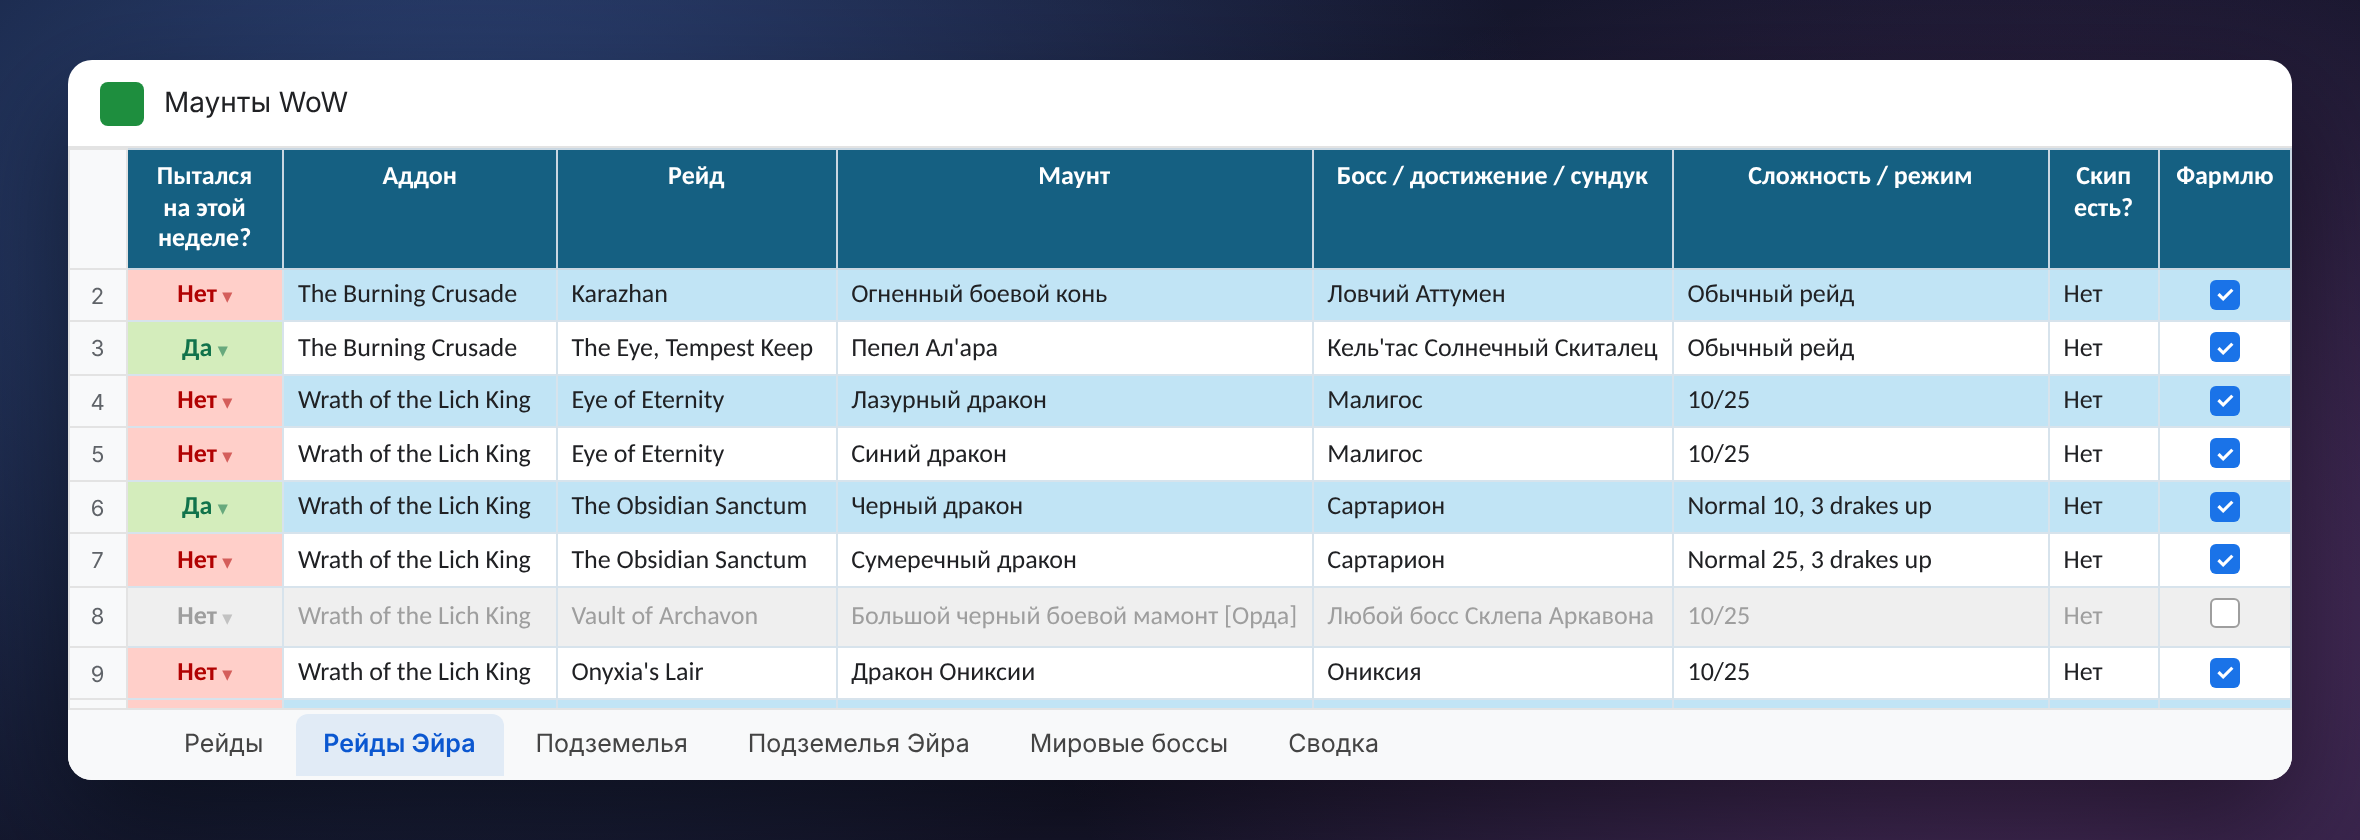
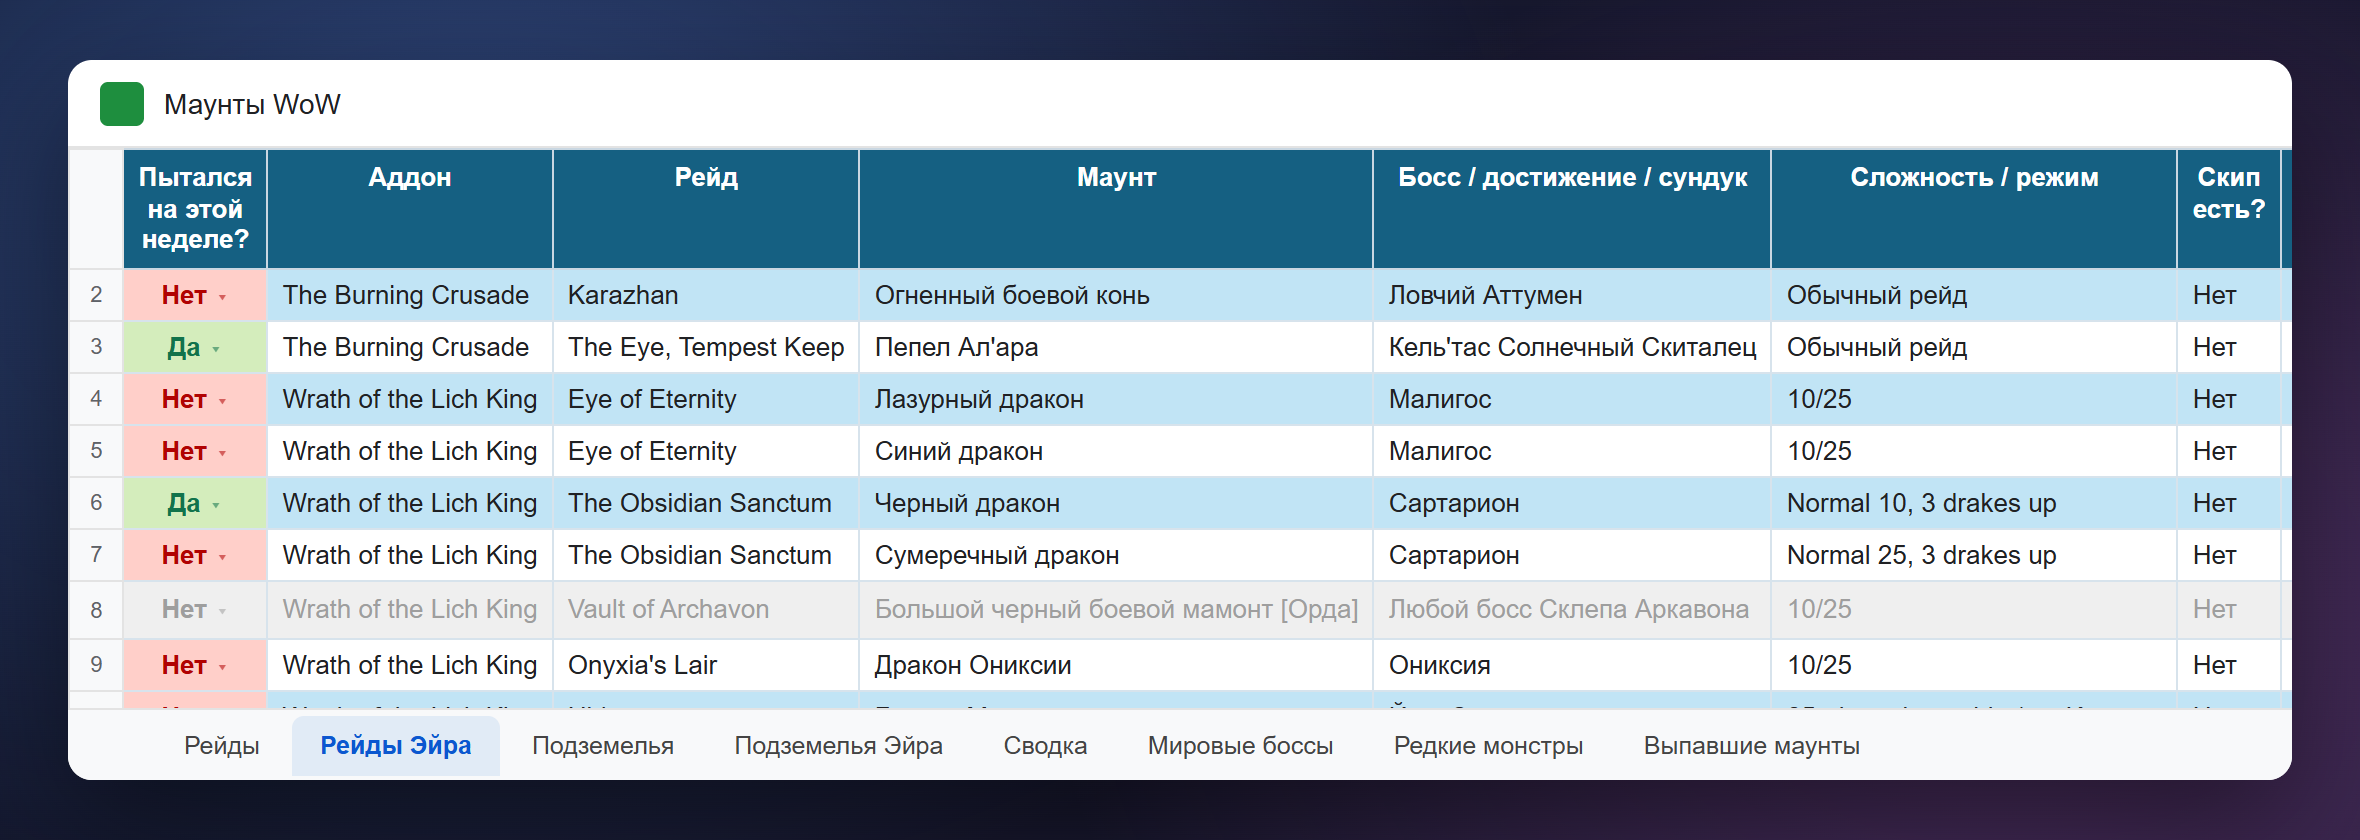
The sheet picture in English for CurseForge; the Russian one redrawn with today's sheets
- BuilderHost: "lang" in the job builds the sheet in that language (SheetLang).
- program.py: the sheet's words for both languages, the host runs by itself on Windows, the tabs come from the built
  sheet (Rare Monsters, Dropped Mounts too); updateCells with a range instead of a start no longer break it.

diff --git a/tools/screens/program.py b/tools/screens/program.py
@@ -7,7 +7,8 @@
 
   python3 tools/screens/program.py      (needs tools/cs_host/BuilderHost.exe: tools/cs_host/build.sh)
   MSS_SCREEN_LANG=enUS python3 tools/screens/program.py   -> docs/screens/en/program-menu.png, program-settings.png
-      (the CurseForge set: the same pictures with the program's English texts from tools/i18n/ui*.txt; no sheet)
+      and sheet.png (the CurseForge set: the program's English texts from tools/i18n/ui*.txt, the sheet as SheetLang
+      writes an English one)
 """
 import html
 import json
@@ -205,15 +206,29 @@ def color(c, default):
     return "rgb(%d,%d,%d)" % tuple(round(255 * c.get(k, 0)) for k in ("red", "green", "blue"))
 
 
+# The sheet's own words: Russian, or English as SheetLang writes an English sheet (BuilderHost "lang").
+SHEET_WORDS = {
+    "ru": {"title": "Маунты WoW", "char": "Эйра", "yes": "Да", "no": "Нет",
+           "tabs": ["Рейды", "Рейды Эйра", "Подземелья", "Подземелья Эйра", "Мировые боссы", "Сводка"]},
+    "en": {"title": "WoW Mounts", "char": "Eira", "yes": "Yes", "no": "No",
+           "tabs": ["Raids", "Raids Eira", "Dungeons", "Dungeons Eira", "World Bosses", "Summary"]},
+}
+
+
 def sheet_html(w, h):
-    job = {"title": "Маунты WoW", "chars": [{"name": "Эйра", "raids": True, "dungeons": True}], "collected": [], "defaultSheetId": 0}
+    words = SHEET_WORDS["en" if LANG == "en" else "ru"]
+    job = {"title": words["title"], "chars": [{"name": words["char"], "raids": True, "dungeons": True}], "collected": [],
+           "defaultSheetId": 0}
+    if LANG == "en":
+        job["lang"] = "en"
     host = os.path.join(ROOT, "tools", "cs_host", "BuilderHost.exe")
-    out = json.loads(subprocess.run(["mono", host], input=json.dumps(job, ensure_ascii=False).encode(), capture_output=True,
-                                    check=True).stdout.decode("utf-8"))
+    cmd = [host] if os.name == "nt" else ["mono", host]   # on Windows the .NET host runs by itself
+    out = json.loads(subprocess.run(cmd, input=json.dumps(job, ensure_ascii=False).encode(), capture_output=True, check=True,
+                                    env=dict(os.environ, MSS_HOST_LANG="en" if LANG == "en" else "ru")).stdout.decode("utf-8"))
     reqs = out["requests"]
     sheet_id = [r["addSheet"]["properties"]["sheetId"] for r in reqs
-                if "addSheet" in r and r["addSheet"]["properties"]["title"] == "Рейды Эйра"][0]
-    rows = [r["updateCells"]["rows"] for r in reqs if "updateCells" in r and r["updateCells"]["start"]["sheetId"] == sheet_id][0]
+                if "addSheet" in r and r["addSheet"]["properties"]["title"] == words["tabs"][1]][0]
+    rows = [r["updateCells"]["rows"] for r in reqs if "updateCells" in r and r["updateCells"].get("start", {}).get("sheetId") == sheet_id][0]
     band = [r["addBanding"]["bandedRange"]["rowProperties"] for r in reqs
             if "addBanding" in r and r["addBanding"]["bandedRange"]["range"]["sheetId"] == sheet_id][0]
     rules = [r["addConditionalFormatRule"]["rule"] for r in reqs if "addConditionalFormatRule" in r
@@ -224,7 +239,7 @@ def sheet_html(w, h):
             cond = ru["booleanRule"]["condition"]
             if cond["type"] == "TEXT_EQ" and cond["values"][0]["userEnteredValue"] == text:
                 return ru["booleanRule"]["format"]
-    yes, no = rule_for("Да"), rule_for("Нет")
+    yes, no = rule_for(words["yes"]), rule_for(words["no"])
     grey = [ru["booleanRule"]["format"] for ru in rules if ru["booleanRule"]["condition"]["type"] == "CUSTOM_FORMULA"
             and "FALSE" in ru["booleanRule"]["condition"]["values"][0]["userEnteredValue"]][0]
 
@@ -234,8 +249,8 @@ def sheet_html(w, h):
     header = [val(c) for c in rows[0]["values"]]
     data = [[val(c) for c in r["values"]] for r in rows[1:10]]
     # sample marks: two kills this week, one row not farmed on this character
-    data[1][0] = "Да"
-    data[4][0] = "Да"
+    data[1][0] = words["yes"]
+    data[4][0] = words["yes"]
     data[6][7] = False
     cols = [118, 150, 150, 170, 150, 140, 82, 72]
     th = "".join("<th style='width:%dpx'>%s</th>" % (cw, e(t)) for cw, t in zip(cols, header))
@@ -249,7 +264,7 @@ def sheet_html(w, h):
             if not farmed:
                 style += "color:%s;" % color(grey["textFormat"]["foregroundColor"], "#999")
             if j == 0:
-                f = yes if v == "Да" else no
+                f = yes if v == words["yes"] else no
                 if farmed:
                     style += "background:%s;color:%s;" % (color(f["backgroundColor"], bg), color(f["textFormat"]["foregroundColor"], "#000"))
                 style += "text-align:center;font-weight:600;"
@@ -278,9 +293,10 @@ td.rn, th.rn { background:#f8f9fa; color:#5f6368; width:34px; text-align:center;
   display:flex; align-items:center; gap:2px; padding-left:44px; font-family:"Inter",sans-serif; font-size:12.5px; color:#444; }
 .tabs span { padding:8px 14px; } .tabs .on { background:#e1ebf6; color:#0b57d0; font-weight:600; border-radius:6px 6px 0 0; }
 """ % head_bg
-    tabs = "".join("<span%s>%s</span>" % (" class='on'" if t == "Рейды Эйра" else "", e(t))
-                   for t in ["Рейды", "Рейды Эйра", "Подземелья", "Подземелья Эйра", "Мировые боссы", "Сводка"])
-    body_html = ("<div class='card'><div class='top'><span class='doc'></span>Маунты WoW</div>"
+    # the sheets in the order the builder adds them (Raids, Raids <name>, ..., Rare Monsters, Dropped Mounts)
+    titles = [r["addSheet"]["properties"]["title"] for r in reqs if "addSheet" in r]
+    tabs = "".join("<span%s>%s</span>" % (" class='on'" if t == words["tabs"][1] else "", e(t)) for t in titles)
+    body_html = ("<div class='card'><div class='top'><span class='doc'></span>" + e(words["title"]) + "</div>"
                  "<table><tr><th class='rn'></th>%s</tr>%s</table><div class='tabs'>%s</div></div>") % (th, "".join(body), tabs)
     return page(css, body_html, w, h)
 
@@ -291,8 +307,6 @@ def main():
         os.path.join(OUT, "icon-64.png"))
     jobs = [("program-menu.png", menu_html, 1100, 760), ("program-settings.png", settings_html, 700, 900),
             ("sheet.png", sheet_html, 1180, 420)]
-    if LANG == "en":
-        jobs = jobs[:2]   # the sheet is built in Russian (BuilderHost)
     with sync_playwright() as p:
         browser = launch_browser(p)
         for name, fn, w, h in jobs:

diff --git a/tools/cs_host/BuilderHost.cs b/tools/cs_host/BuilderHost.cs
@@ -18,6 +18,11 @@ namespace MountSheetSync
             Dictionary<string, object> job = (Dictionary<string, object>)Json.Parse(input);
             BuildPlan plan = new BuildPlan();
             plan.Title = J.Str(job, "title");
+            string lang = J.Str(job, "lang");
+            if (!string.IsNullOrEmpty(lang))
+            {
+                plan.Lang = SheetLang.Get(lang);   // the sheet in that language (tools/screens/program.py, English picture)
+            }
             plan.Today = new DateTime(2026, 10, 21);
             foreach (object o in J.Arr(J.Get(job, "chars")))
             {
